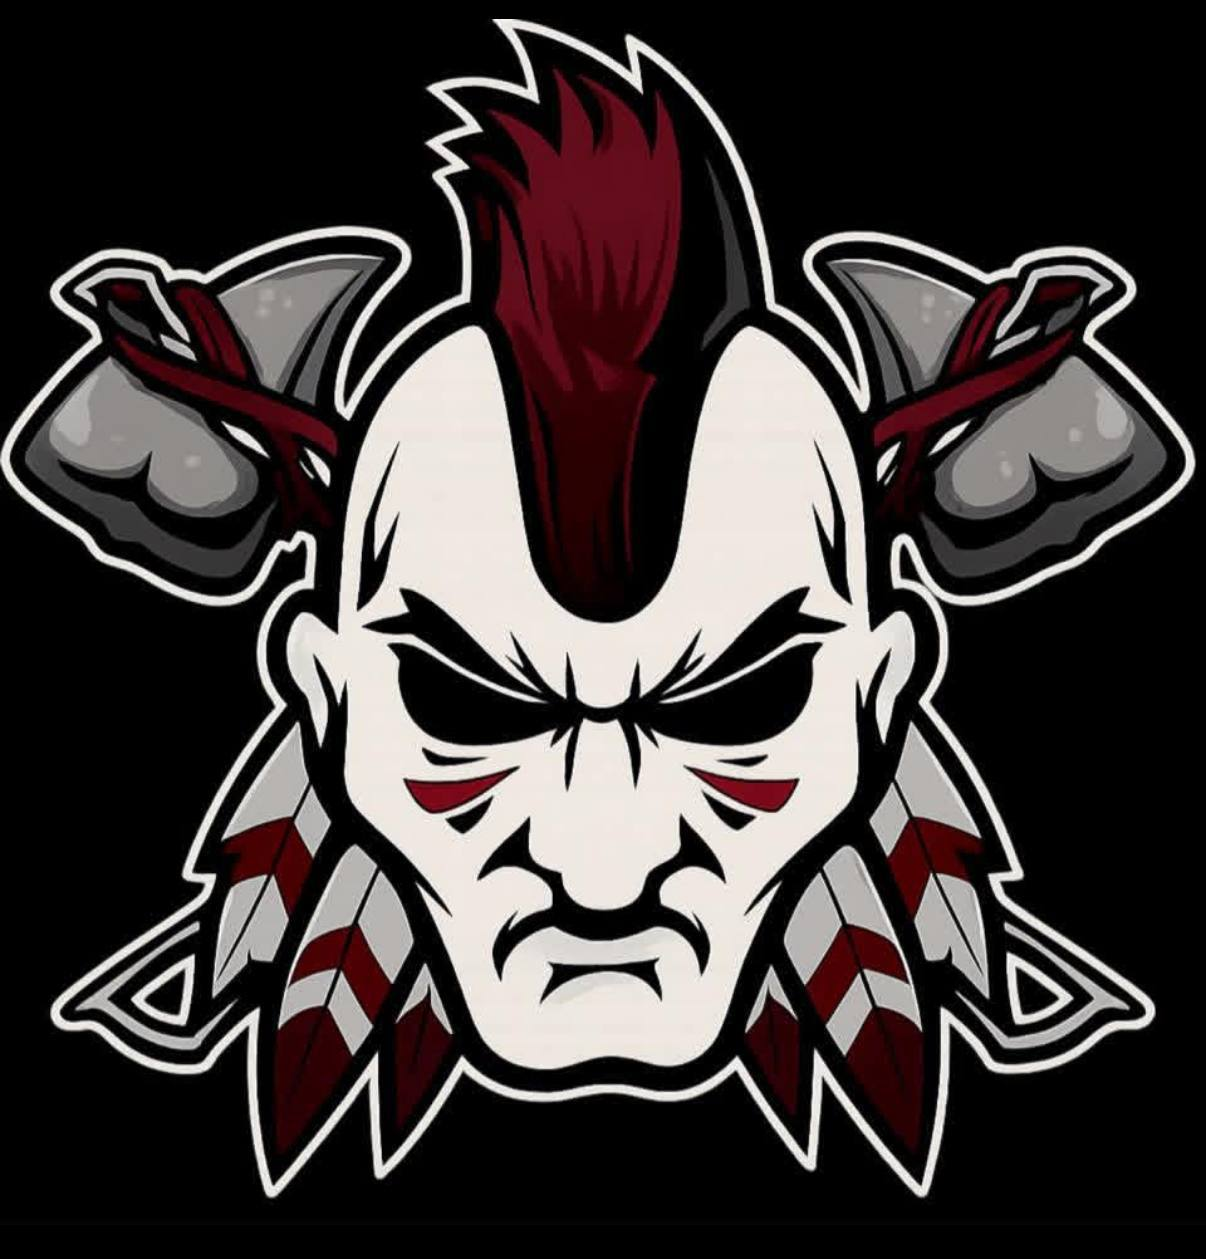
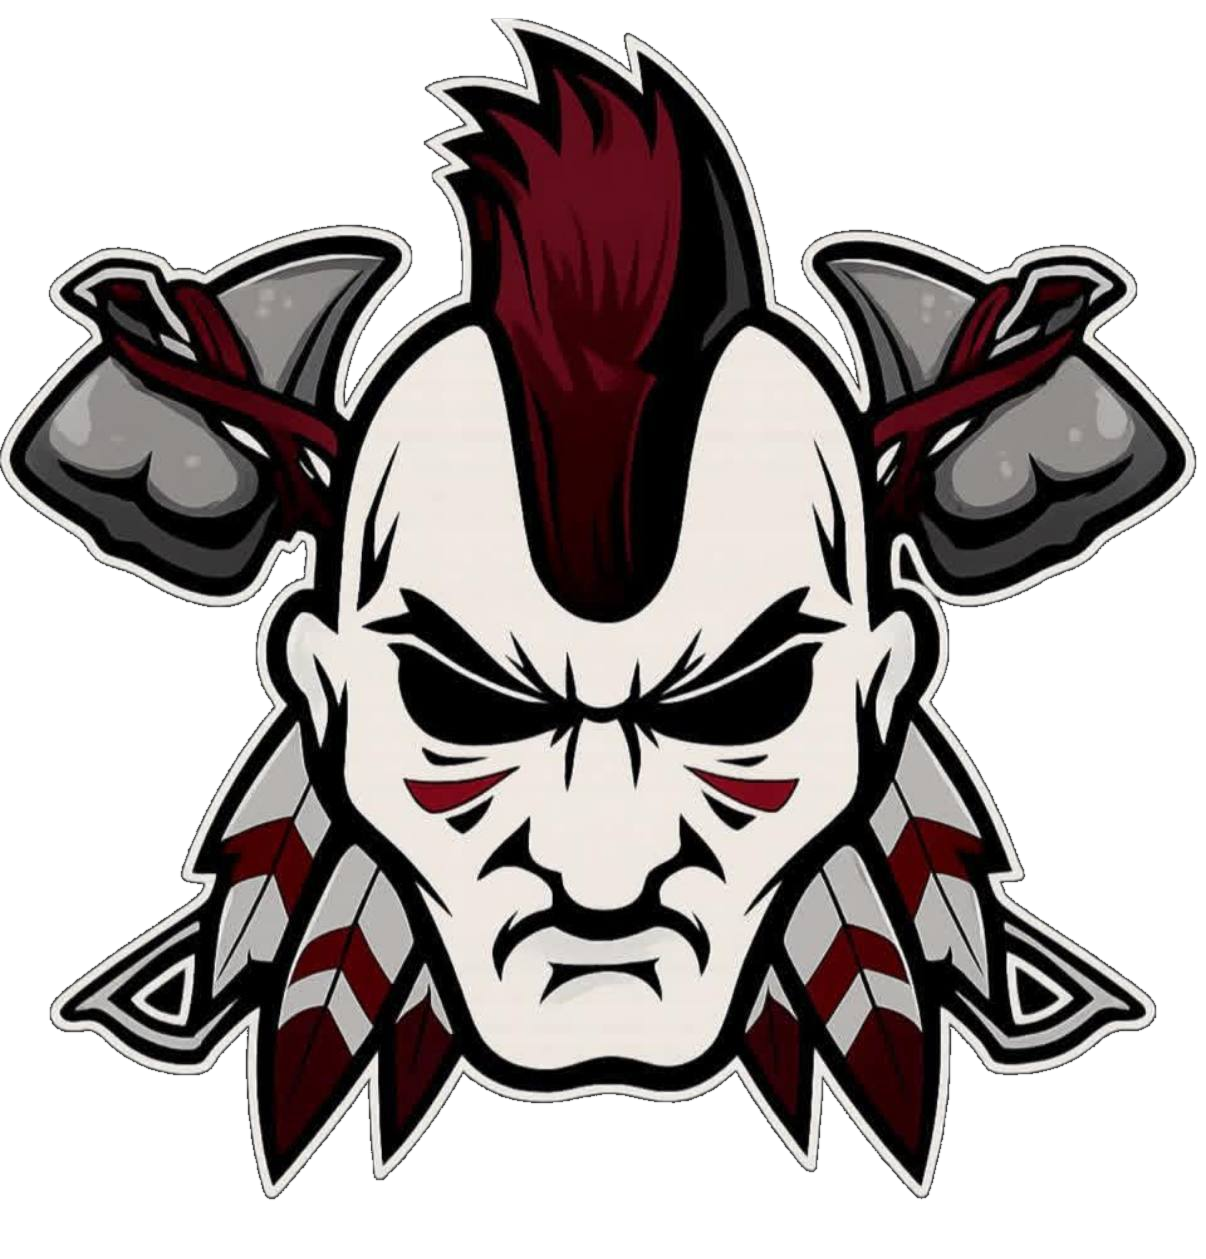
Fix mascot transparency, style Where Do I Go tile, dark-mode game cards
- mascot.png had an opaque black background baked in (not real
  transparency despite the RGBA mode) — border-connected flood-fill
  removes it while preserving interior dark details (eyes, hair
  shading). Fixes the black rectangle in hero, nav, and footer.
- "Where Do I Go?" was a bare dashed box next to three vibrant 3D
  tiles, reading as broken/unbuilt. Gave it the same tile-3d treatment
  (green gradient, icon watermark, badge, chevron) as the other three.
- All four games shared a stark white "worksheet" card with a mint
  feedback box and emoji icons — reviewed as "a light-mode worksheet
  pasted onto a dark arcade." Replaced with a translucent dark game
  panel, gold Anton labels, dark tactile answer buttons (Rules Quiz),
  and a colored badge (green check / amber !) instead of emoji for
  feedback state.

diff --git a/src/app/games/rules/page.tsx b/src/app/games/rules/page.tsx
@@ -229,11 +229,11 @@ export default function RulesQuizPage() {
             </div>
           )}
 
-          <div className="bg-white rounded-3xl p-6 shadow-xl mb-4">
-            <p className="text-[#8b1a2e] text-[11px] font-bold uppercase tracking-widest mb-3">
-              ⚾ Question {current + 1}
+          <div className="game-panel rounded-3xl p-6 shadow-xl mb-4">
+            <p className="font-display text-[#c9a84c] text-[13px] tracking-widest mb-3">
+              ⚾ QUESTION {current + 1}
             </p>
-            <h2 className="text-[#0f2044] text-[18px] font-bold leading-snug mb-5">
+            <h2 className="text-white text-[18px] font-bold leading-snug mb-5">
               {q.question}
             </h2>
 
@@ -243,20 +243,20 @@ export default function RulesQuizPage() {
                 const isSelected = selected === i;
                 const isCorrectOpt = i === q.correct;
 
-                let style = "tactile w-full flex items-center gap-3 text-left px-4 py-3.5 rounded-2xl font-semibold text-[15px] bg-white text-[#1a2a4a] ";
+                let style = "tactile-dark w-full flex items-center gap-3 text-left px-4 py-3.5 rounded-2xl font-semibold text-[15px] ";
                 let chipStyle = "w-[30px] h-[30px] rounded-[10px] flex items-center justify-center text-[13px] font-extrabold shrink-0 transition-colors ";
 
                 if (selected === null) {
-                  chipStyle += "bg-[#eef1f8] text-[#4a5880]";
+                  chipStyle += "bg-white/10 text-white/70";
                 } else if (isCorrectOpt) {
-                  style += "tactile-correct animate-pop-in ";
+                  style += "tactile-dark-correct animate-pop-in ";
                   chipStyle += "bg-green-500 text-white";
                 } else if (isSelected && !isCorrectOpt) {
-                  style += `tactile-wrong ${wrongKey > 0 && wrongIdx === i ? "animate-shake-h" : ""} `;
+                  style += `tactile-dark-wrong ${wrongKey > 0 && wrongIdx === i ? "animate-shake-h" : ""} `;
                   chipStyle += "bg-red-500 text-white";
                 } else {
                   style += "opacity-45 ";
-                  chipStyle += "bg-[#eef1f8] text-[#4a5880]";
+                  chipStyle += "bg-white/10 text-white/70";
                 }
 
                 return (
@@ -279,10 +279,15 @@ export default function RulesQuizPage() {
             {selected !== null && (
               <div
                 className={`mt-5 rounded-2xl px-5 py-4 text-[14px] leading-relaxed animate-pop-in ${
-                  isCorrect ? "bg-green-50 text-green-800" : "bg-amber-50 text-amber-900"
+                  isCorrect ? "feedback-correct" : "feedback-wrong"
                 }`}
               >
-                <p className="font-bold mb-1">{isCorrect ? "✅ Correct!" : "❌ Not quite!"}</p>
+                <p className="font-bold mb-1.5 flex items-center gap-2">
+                  <span className={`inline-flex items-center justify-center w-5 h-5 rounded-full text-[11px] font-black shrink-0 ${isCorrect ? "feedback-badge-correct" : "feedback-badge-wrong"}`}>
+                    {isCorrect ? "✓" : "!"}
+                  </span>
+                  {isCorrect ? "Correct!" : "Not quite!"}
+                </p>
                 <p>{q.explanation}</p>
               </div>
             )}

diff --git a/src/app/globals.css b/src/app/globals.css
@@ -87,6 +87,11 @@ textarea.field { resize: none; }
   background: linear-gradient(145deg, #d4b55a 0%, #a8842e 100%);
   box-shadow: 0 6px 0 #7a5f1e, 0 10px 40px rgba(201,168,76,0.5);
 }
+/* 3D raised game tile — green (position practice) */
+.tile-position {
+  background: linear-gradient(145deg, #2f8a3a 0%, #1b5c22 100%);
+  box-shadow: 0 6px 0 #0f3a13, 0 10px 40px rgba(47,138,58,0.5);
+}
 .tile-3d { transition: transform 0.12s; }
 .tile-3d:active { transform: translateY(4px); }
 
@@ -120,6 +125,65 @@ textarea.field { resize: none; }
   border-bottom-color: #dc2626 !important;
   color: #7f1d1d !important;
   box-shadow: 0 2px 0 #b91c1c;
+}
+
+/* Dark-mode tactile answer button — for game screens on the navy background */
+.tactile-dark {
+  background: rgba(255,255,255,0.06);
+  border: 2px solid rgba(255,255,255,0.16);
+  border-bottom: 4px solid rgba(255,255,255,0.10);
+  box-shadow: 0 2px 0 rgba(0,0,0,0.2);
+  color: #fff;
+  transition: transform 0.1s, border-color 0.1s, background 0.1s, box-shadow 0.1s;
+}
+.tactile-dark:not(:disabled):hover {
+  border-color: rgba(255,255,255,0.38);
+  border-bottom-color: rgba(255,255,255,0.28);
+  background: rgba(255,255,255,0.11);
+}
+.tactile-dark:not(:disabled):active {
+  transform: translateY(2px);
+  border-bottom-width: 2px;
+  box-shadow: none;
+}
+.tactile-dark-correct {
+  background: rgba(34,197,94,0.18) !important;
+  border-color: #22c55e !important;
+  border-bottom-color: #16a34a !important;
+  color: #bbf7d0 !important;
+  box-shadow: 0 2px 0 #15803d;
+}
+.tactile-dark-wrong {
+  background: rgba(239,68,68,0.18) !important;
+  border-color: #f87171 !important;
+  border-bottom-color: #dc2626 !important;
+  color: #fecaca !important;
+  box-shadow: 0 2px 0 #b91c1c;
+}
+
+/* Dark game panel — replaces the white "worksheet" card during gameplay */
+.game-panel {
+  background: rgba(255,255,255,0.06);
+  border: 1px solid rgba(255,255,255,0.10);
+  backdrop-filter: blur(6px);
+}
+.feedback-correct {
+  background: rgba(34,197,94,0.12);
+  border: 1px solid rgba(34,197,94,0.35);
+  color: #bbf7d0;
+}
+.feedback-wrong {
+  background: rgba(245,158,11,0.12);
+  border: 1px solid rgba(245,158,11,0.35);
+  color: #fde68a;
+}
+.feedback-badge-correct {
+  background: #22c55e;
+  color: #06210f;
+}
+.feedback-badge-wrong {
+  background: #f59e0b;
+  color: #2a1a04;
 }
 
 /* 3D CTA button (Next) */

diff --git a/src/app/games/page.tsx b/src/app/games/page.tsx
@@ -132,13 +132,21 @@ export default function GamesPage() {
 
           {/* Where Do I Go? — free play, not scored */}
           <Link href="/games/position" className="block">
-            <div className="relative overflow-hidden rounded-[24px] p-6 cursor-pointer border-2 border-dashed border-white/20 hover:border-white/35 transition-colors active:scale-[0.98]">
+            <div className="tile-position tile-3d relative overflow-hidden rounded-[24px] p-6 cursor-pointer">
+              <div className="absolute inset-x-0 top-0 h-1/2 rounded-t-[24px] pointer-events-none"
+                   style={{ background: "linear-gradient(180deg,rgba(255,255,255,0.10) 0%,transparent 100%)" }} />
+              <div className="absolute -right-2 -bottom-3 text-[90px] leading-none opacity-[0.14] pointer-events-none -rotate-12 select-none">🧭</div>
+
               <div className="relative">
-                <span className="inline-block bg-white/10 text-white/60 text-[10px] font-bold uppercase tracking-[0.2em] px-2.5 py-1 rounded-full mb-2.5">Practice Mode</span>
+                <span className="inline-block bg-white/15 text-white/80 text-[10px] font-bold uppercase tracking-[0.2em] px-2.5 py-1 rounded-full mb-2.5">Practice Mode</span>
                 <h2 className="font-display text-white text-3xl leading-none mb-2">WHERE DO I GO?</h2>
-                <p className="text-white/50 text-[13px] font-medium leading-snug">
+                <p className="text-white/70 text-[13px] font-medium leading-snug mb-4 max-w-[240px]">
                   Pick YOUR position. Only see the plays where you have a job — no scoring, just reps.
                 </p>
+                <div className="flex items-center justify-between">
+                  <span className="bg-white/20 text-white text-[11px] font-bold px-2.5 py-1.5 rounded-full">🎯 No Pressure</span>
+                  <div className="w-9 h-9 bg-white/15 rounded-full flex items-center justify-center text-white text-lg">›</div>
+                </div>
               </div>
             </div>
           </Link>

diff --git a/src/app/games/backup/page.tsx b/src/app/games/backup/page.tsx
@@ -289,10 +289,10 @@ export default function BackupPage() {
         {/* Question card */}
         <div
           key={shakeKey}
-          className={`bg-white rounded-3xl px-5 py-5 shadow-xl mb-4 ${shakeKey > 0 && tapState === "wrong" ? "animate-shake-h" : ""}`}
+          className={`game-panel rounded-3xl px-5 py-5 shadow-xl mb-4 ${shakeKey > 0 && tapState === "wrong" ? "animate-shake-h" : ""}`}
         >
-          <p className="text-[#1a4a72] text-[11px] font-bold uppercase tracking-widest mb-1.5">📍 Your Move</p>
-          <h2 className="text-[#0f2044] text-[17px] font-bold leading-snug">
+          <p className="font-display text-[#c9a84c] text-[12px] tracking-widest mb-1.5">📍 YOUR MOVE</p>
+          <h2 className="text-white text-[17px] font-bold leading-snug">
             {s.question}
           </h2>
 
@@ -300,11 +300,14 @@ export default function BackupPage() {
           {tapState !== null && (
             <div
               className={`mt-4 rounded-2xl px-4 py-4 text-[14px] leading-relaxed animate-pop-in ${
-                tapState === "correct" ? "bg-green-50 text-green-800" : "bg-amber-50 text-amber-900"
+                tapState === "correct" ? "feedback-correct" : "feedback-wrong"
               }`}
             >
-              <p className="font-bold mb-1">
-                {tapState === "correct" ? "✅ Correct!" : `❌ That was ${FIELD_POS[tappedZone as PositionKey]?.label ?? tappedZone} — check the green circle!`}
+              <p className="font-bold mb-1.5 flex items-center gap-2">
+                <span className={`inline-flex items-center justify-center w-5 h-5 rounded-full text-[11px] font-black shrink-0 ${tapState === "correct" ? "feedback-badge-correct" : "feedback-badge-wrong"}`}>
+                  {tapState === "correct" ? "✓" : "!"}
+                </span>
+                {tapState === "correct" ? "Correct!" : `That was ${FIELD_POS[tappedZone as PositionKey]?.label ?? tappedZone} — check the green circle!`}
               </p>
               <p>{s.explanation}</p>
             </div>

diff --git a/src/app/games/daily/page.tsx b/src/app/games/daily/page.tsx
@@ -102,13 +102,18 @@ export default function DailyPage() {
               </p>
             )}
 
-            <div className="bg-white rounded-3xl px-5 py-5 shadow-xl mb-4">
-              <p className="text-[#1a4a72] text-[11px] font-bold uppercase tracking-widest mb-1.5">📍 Your Move</p>
-              <h2 className="text-[#0f2044] text-[17px] font-bold leading-snug">{s.question}</h2>
+            <div className="game-panel rounded-3xl px-5 py-5 shadow-xl mb-4">
+              <p className="font-display text-[#c9a84c] text-[12px] tracking-widest mb-1.5">📍 YOUR MOVE</p>
+              <h2 className="text-white text-[17px] font-bold leading-snug">{s.question}</h2>
 
               {tapState !== null && (
-                <div className={`mt-4 rounded-2xl px-4 py-4 text-[14px] leading-relaxed animate-pop-in ${tapState === "correct" ? "bg-green-50 text-green-800" : "bg-amber-50 text-amber-900"}`}>
-                  <p className="font-bold mb-1">{tapState === "correct" ? "✅ Correct!" : "❌ Check the green circle!"}</p>
+                <div className={`mt-4 rounded-2xl px-4 py-4 text-[14px] leading-relaxed animate-pop-in ${tapState === "correct" ? "feedback-correct" : "feedback-wrong"}`}>
+                  <p className="font-bold mb-1.5 flex items-center gap-2">
+                    <span className={`inline-flex items-center justify-center w-5 h-5 rounded-full text-[11px] font-black shrink-0 ${tapState === "correct" ? "feedback-badge-correct" : "feedback-badge-wrong"}`}>
+                      {tapState === "correct" ? "✓" : "!"}
+                    </span>
+                    {tapState === "correct" ? "Correct!" : "Check the green circle!"}
+                  </p>
                   <p>{s.explanation}</p>
                 </div>
               )}

diff --git a/src/app/games/position/page.tsx b/src/app/games/position/page.tsx
@@ -214,13 +214,18 @@ export default function PositionPage() {
           </p>
         )}
 
-        <div className="bg-white rounded-3xl px-5 py-5 shadow-xl mb-4">
-          <p className="text-[#1a4a72] text-[11px] font-bold uppercase tracking-widest mb-1.5">📍 Your Move</p>
-          <h2 className="text-[#0f2044] text-[17px] font-bold leading-snug">{s.question}</h2>
+        <div className="game-panel rounded-3xl px-5 py-5 shadow-xl mb-4">
+          <p className="font-display text-[#c9a84c] text-[12px] tracking-widest mb-1.5">📍 YOUR MOVE</p>
+          <h2 className="text-white text-[17px] font-bold leading-snug">{s.question}</h2>
 
           {tapState !== null && (
-            <div className={`mt-4 rounded-2xl px-4 py-4 text-[14px] leading-relaxed animate-pop-in ${tapState === "correct" ? "bg-green-50 text-green-800" : "bg-amber-50 text-amber-900"}`}>
-              <p className="font-bold mb-1">{tapState === "correct" ? "✅ Correct!" : "❌ Check the green circle!"}</p>
+            <div className={`mt-4 rounded-2xl px-4 py-4 text-[14px] leading-relaxed animate-pop-in ${tapState === "correct" ? "feedback-correct" : "feedback-wrong"}`}>
+              <p className="font-bold mb-1.5 flex items-center gap-2">
+                <span className={`inline-flex items-center justify-center w-5 h-5 rounded-full text-[11px] font-black shrink-0 ${tapState === "correct" ? "feedback-badge-correct" : "feedback-badge-wrong"}`}>
+                  {tapState === "correct" ? "✓" : "!"}
+                </span>
+                {tapState === "correct" ? "Correct!" : "Check the green circle!"}
+              </p>
               <p>{s.explanation}</p>
             </div>
           )}
